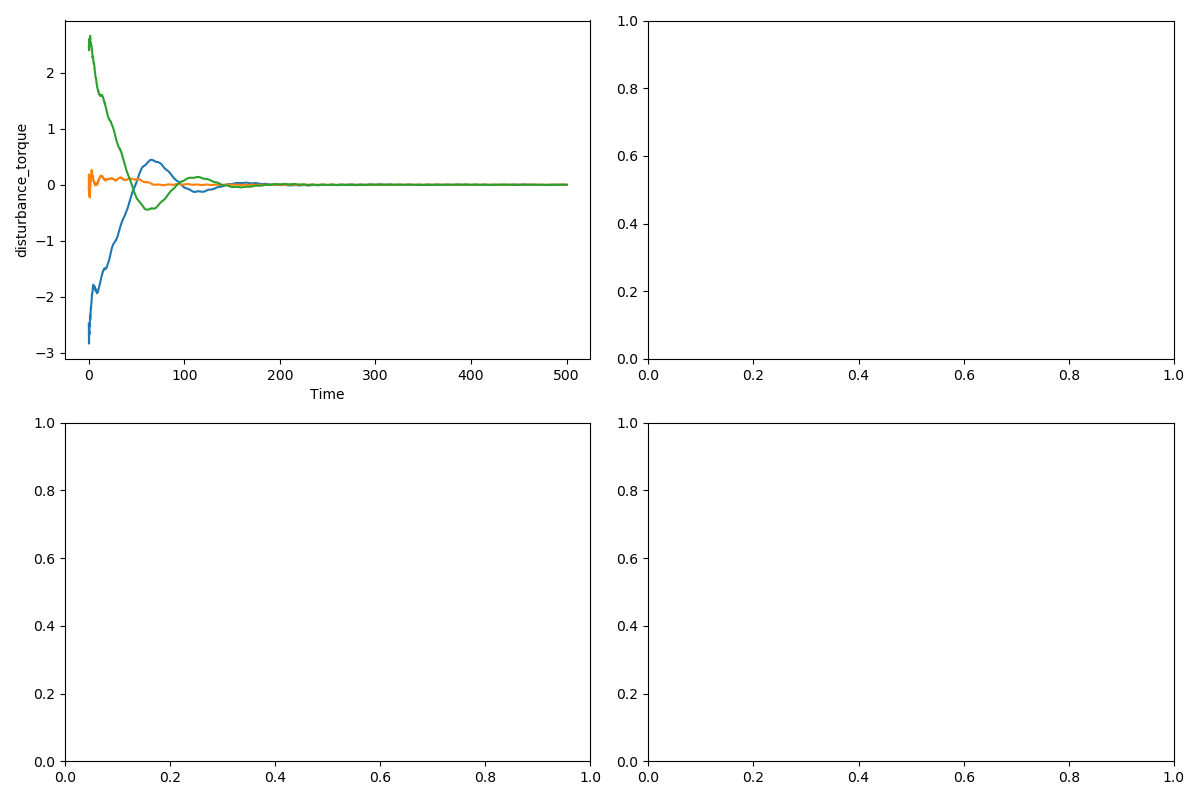
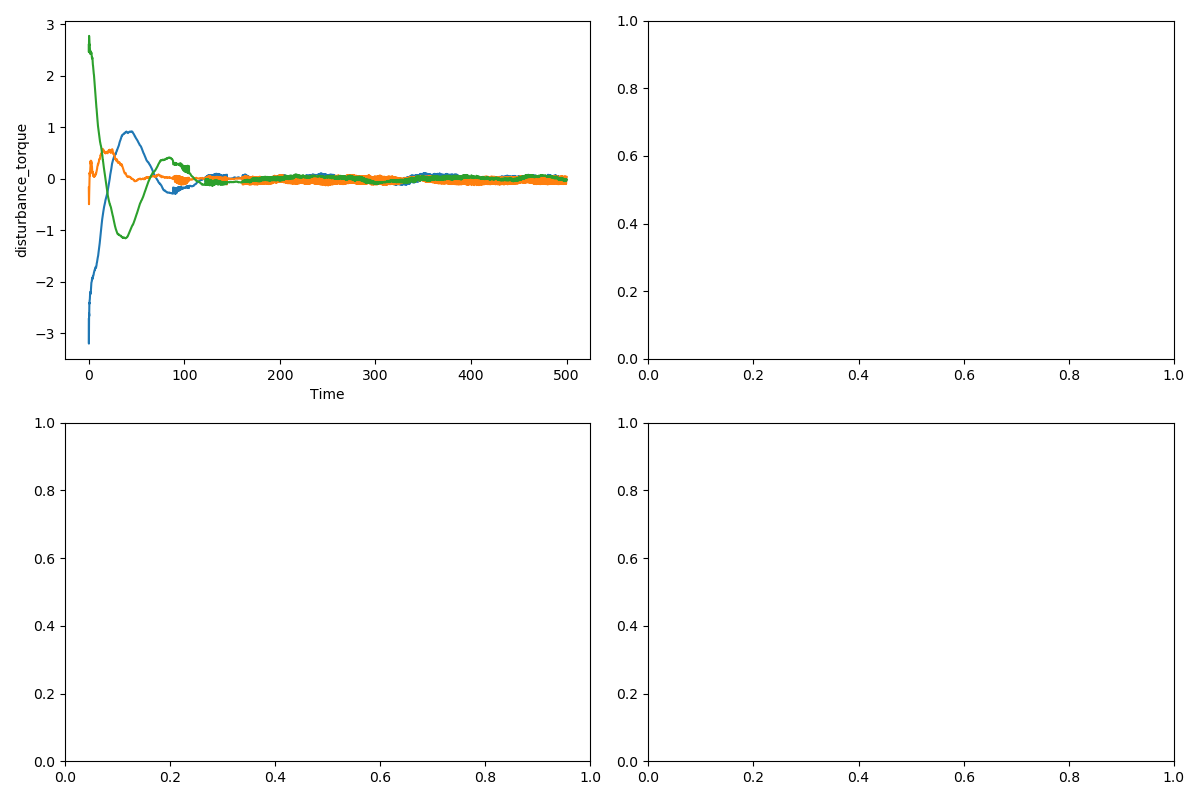
add: sensor, actiator

diff --git a/lib/omega.py b/lib/omega.py
@@ -1,37 +1,43 @@
 import numpy as np
 import scipy.integrate as spi
 from scipy.spatial.transform import Rotation as R
-from .util import transform as tf, pid
+from .util import transform as tf, pid, kfilter as kf
 
 class AngulVelocity:
     def __init__(self, omega_current, tgt_omega):
-        # ｶﾙﾏﾝﾌｨﾙﾀ初期化
         self.pid_controller = pid.PIDController(0.0, 0., 0., 0.1) # kp, ki, kd, dt
+        self.sensor_filter = kf.SimpleKalmanFilter(0.1, 0.1, omega_current) # ｶﾙﾏﾝﾌｨﾙﾀ初期化
         self.omega_current = omega_current  # 初期角速度
-        self.tgt_goal = tgt_omega  # 目標角速度
-        # Constraints
-        self.tgt_omega = tgt_omega  # 目標角速度
         self.max_angular_rate_change = 0.01  # [rad/s]: 最大加速ﾚｰﾄ
-        self.angular_rate_change = 0.01  # [rad/s]: 最大加速ﾚｰﾄ
-        self.omega_pid = omega_current
-        self.omega_inst = tgt_omega
-        self.omega_tgt = tgt_omega
-        self.omega_err = tgt_omega
+        self.angular_rate_change = 0.003  # [rad/s]: 加速ﾚｰﾄ
+        self.omega_pid = omega_current #PID制御器の出力
+        self.omega_inst = tgt_omega #指示角速度
+        self.omega_tgt = tgt_omega #目標角速度
+        self.omega_err = tgt_omega #目標角速度と現在角速度の差
 
     def calc_omega(self, I, omega, u, I_inv, dt):
-        self.calc_inst_omega(omega)
-        # # Solve the motion equations
+        # calc kalman filter
+        self.omega_current = self.sensor_filter.update(omega)
+
+        # calc instruction omega
+        self.calc_inst_omega()
+
+        # calc dw/dt
         tmp_l = (I @ omega.T).T
         tmp_r = u - tf.tmp_multi(omega, tmp_l)
         omega_dot = (I_inv @ tmp_r.T).T
         omega_dot_limit = self.constrain_angular_rate(omega_dot)
 
+        # calc w
         self.omega_current += omega_dot_limit * dt
-        self.constrain_angular(self.omega_current)
 
+        # limit w
+        self.constrain_angular()
+
+        # calc omega err
         self.omega_err = self.omega_tgt - self.omega_current
-        # print("omega_tgt:{} omega_current:{}".format(self.omega_tgt, self.omega_current))
-        # print("omega:{} {}".format(self.omega_current, self.omega_err))
+
+        # calc omega pid
         self.pid_control()
 
         return self.omega_current
@@ -40,18 +46,17 @@ class AngulVelocity:
         # omega_err = tf.quaternion_to_euler(q_err)
         self.omega_pid = self.pid_controller.update(self.omega_err)
     
-    def calc_inst_omega(self, omega):
-        # err = np.linalg.norm(self.omega_pid - omega)
-        # if abs(err) < self.angular_rate_change:
-        #     self.omega_inst = self.omega_pid
-        # else :
-        #     self.omega_inst = abs(omega) + self.angular_rate_change
-        self.omega_inst = self.omega_pid + self.angular_rate_change
+    def calc_inst_omega(self):
+        err = np.linalg.norm(self.omega_pid - self.omega_current)
+        if abs(err) < self.angular_rate_change:
+            self.omega_inst = self.omega_pid
+        else :
+            self.omega_inst = abs(self.omega_current) + self.angular_rate_change
         
     # Functions to apply angular rate constraints
     def constrain_angular_rate(self, delta_angular_rate):
         return np.clip(delta_angular_rate, -self.max_angular_rate_change, self.max_angular_rate_change)
 
     # Functions to apply angular constraints
-    def constrain_angular(self, delta_angular):
-        self.omega_current = np.clip(delta_angular, -self.omega_inst, self.omega_inst)
+    def constrain_angular(self):
+        self.omega_current = np.clip(self.omega_current, -self.omega_inst, self.omega_inst)

diff --git a/main.py b/main.py
@@ -1,6 +1,8 @@
 import math
 import numpy as np
 from lib.util import plot as pt, transform as tf
+from lib.sensor import gyro
+from lib.actuator import actuator as act
 from lib import ff, omega, state
 
 # def debug_all():
@@ -58,20 +60,26 @@ estimated_disturbance_torque_his = []
 ff = ff.DisturbTorq()
 omega = omega.AngulVelocity(omega_current, omega_tgt)
 state = state.Quaternion(q_current, q_tgt)
-
+gyro = gyro.Gyro(omega_init)
+act = act.Actuator(omega_current)
 
 for step in range(n_steps):
+    # ｾﾝｻﾃﾞｰﾀ更新
+    gyro_data = gyro.receive(omega_current)
+
     # 外乱ﾄﾙｸの算出
-    # u = ff.calc_disturb_trq(q_err, omega_current, step)
     u = ff.calc_disturb_trq(q_err, omega.omega_err, step)
     # 角速度の算出
-    omega_current = omega.calc_omega(I, omega_current, u, I_inv, dt)
+    omega_current = omega.calc_omega(I, gyro_data, u, I_inv, dt)
     # ｸｫｰﾀﾆｵﾝの算出
-    q_current, q_err = state.calc_quater(omega_current, dt)
+    q_current, q_err = state.calc_quater(gyro_data, dt)
 
-    # debug用に座標変換を実施
+    # 各座標変換を実施
     euler_angles_current = tf.quaternion_to_euler(q_current) # ｸｫｰﾀﾆｵﾝからｵｲﾗｰ角を計算
     lambdai, theta_err = tf.quaternion_to_axis_angle(q_err) # ｸｫｰﾀﾆｵﾝ誤差から回転単位ﾍﾞｸﾄﾙ、角度を計算
+
+    act.output(omega_current)
+
 
     # 配列に各要素を追加
     q_current_his.append(q_current.copy())

diff --git a/lib/sensor/gyro.py b/lib/sensor/gyro.py
@@ -1,0 +1,39 @@
+import numpy as np
+import math
+from scipy.stats import norm
+
+class Gyro: ###noisesim_occlusion### 
+    def __init__(self, init_data, direction_noise=math.pi/360*0.5, direction_bias_stddev=math.pi/360*0.1):
+        
+        self.direction_noise = direction_noise  
+        self.direction_bias_phi = norm.rvs(scale=direction_bias_stddev) 
+        self.direction_bias_theta = norm.rvs(scale=direction_bias_stddev) 
+        self.direction_bias_psi = norm.rvs(scale=direction_bias_stddev)
+        self.last_data = init_data
+        
+    def noise(self, euler):
+        data = np.zeros(len(euler))
+        for i in range(0, len(euler)):
+          data[i] = norm.rvs(loc=euler[i], scale=self.direction_noise)
+        return data
+    
+    def bias(self, euler): 
+        data = np.zeros(len(euler))
+        data[0] = euler[0] + self.direction_bias_phi
+        data[1] = euler[1] + self.direction_bias_theta
+        data[2] = euler[2] + self.direction_bias_psi
+        return data
+    
+    def move_average(self, euler):
+        data = np.zeros(len(euler))
+        for i in range(0, len(euler)):
+          data[i] = (self.last_data[i] + euler[i]) / 2
+        return data
+    
+    def receive(self, euler):
+        euler = self.bias(euler) # bias
+        euler = self.noise(euler) # noise
+        euler = self.move_average(euler) # move average
+      
+        self.last_data = euler
+        return euler

diff --git a/lib/ff.py b/lib/ff.py
@@ -3,10 +3,8 @@ from .util import transform as tf, kfilter as kf
 
 class DisturbTorq:
     def __init__(self):
-        # ｶﾙﾏﾝﾌｨﾙﾀ初期化
-        self.disturb_torque_filter = kf.SimpleKalmanFilter(0.1, 0.1, np.zeros(3))
-        self.alpha, self.beta = 10., 50.
-
+        self.disturb_torque_filter = kf.SimpleKalmanFilter(0.1, 0.1, np.zeros(3)) # ｶﾙﾏﾝﾌｨﾙﾀ初期化
+        self.alpha, self.beta = 10., 50. # 状態FB制御のｹﾞｲﾝ
         self.period = 100 # 外乱ﾄﾙｸの周期
         self.amplitude = np.array([0.5, 0.5, 0.5]) # 外乱ﾄﾙｸの振幅
 

diff --git a/lib/actuator/actuator.py b/lib/actuator/actuator.py
@@ -1,0 +1,13 @@
+import numpy as np
+
+class Actuator:
+    def __init__(self, omega_current):
+        self.torque = omega_current
+        self.trans = 0.1 # ｱｸﾁｭｴｰﾀ出力の変化率
+
+    # ｱｸﾁｭｴｰﾀへ出力命令を実施
+    def output(self, omega):
+        self.calc_output(omega)
+    
+    def calc_output(self, omega):
+        self.torque = omega * self.trans
